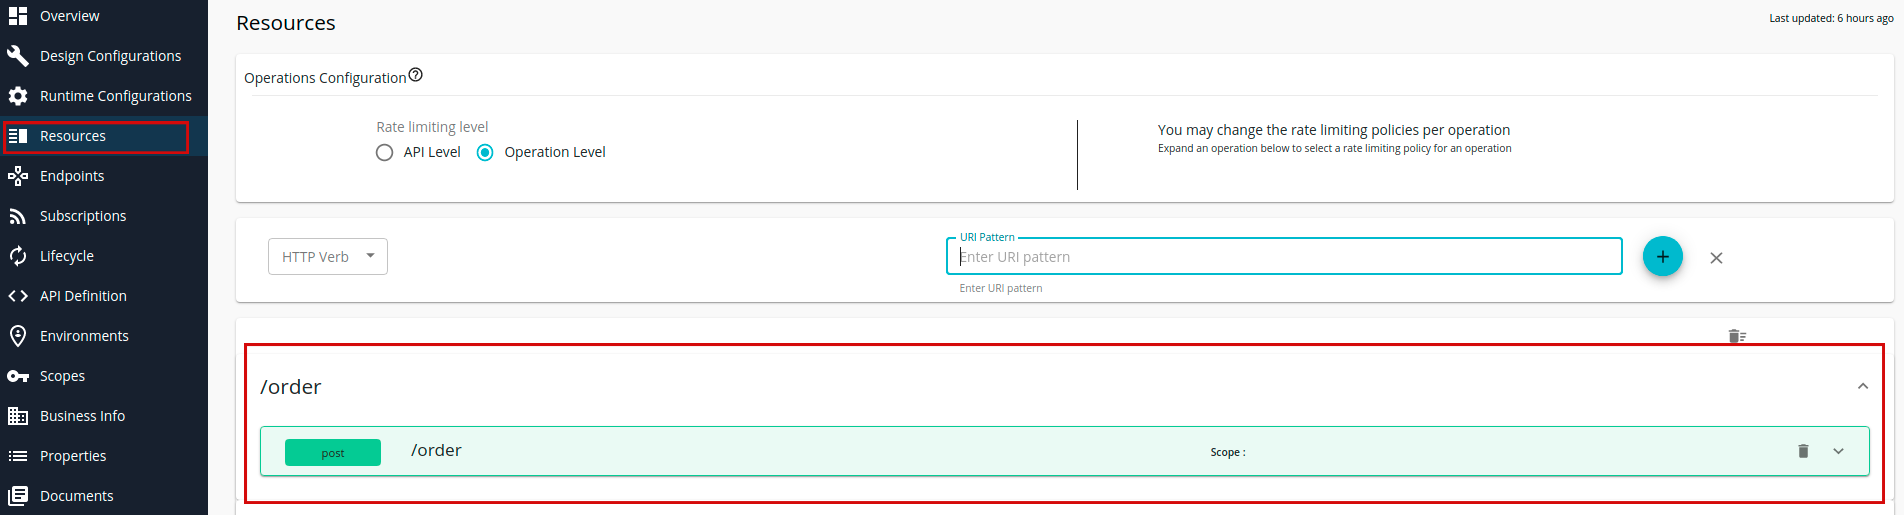
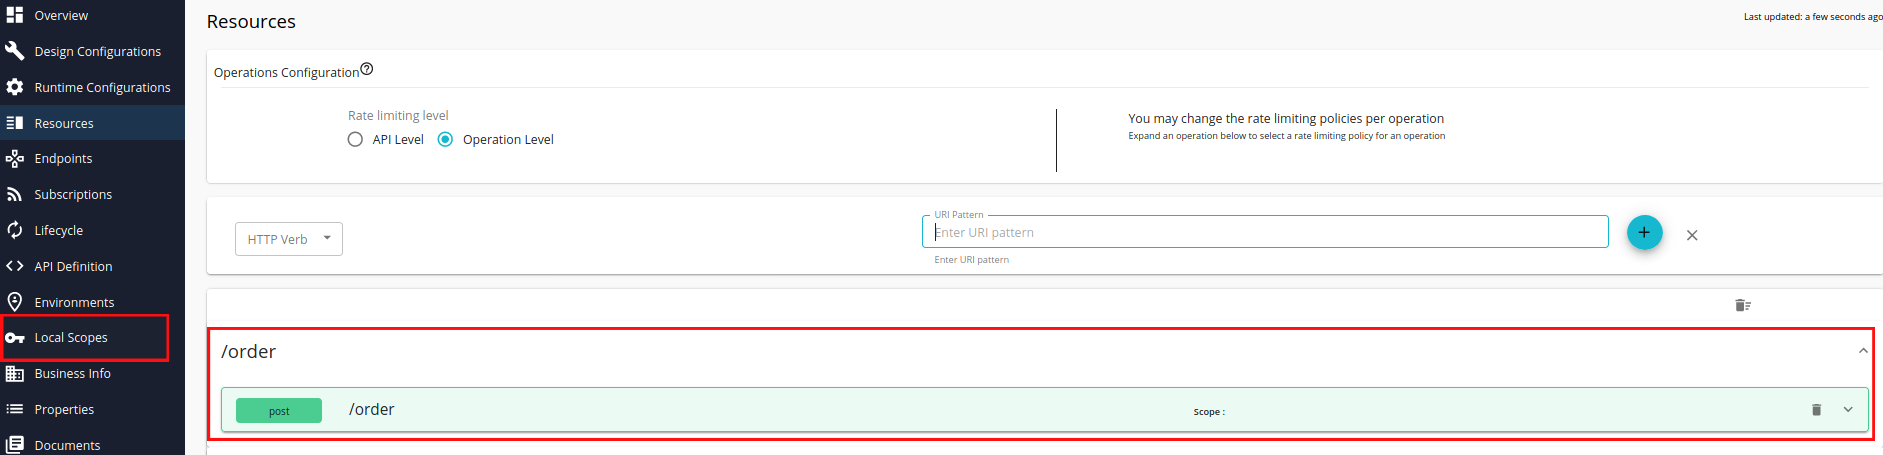
address review comments

diff --git a/en/docs/learn/api-security/oauth2/oauth2-scopes/fine-grained-access-control-with-oauth-scopes.md b/en/docs/learn/api-security/oauth2/oauth2-scopes/fine-grained-access-control-with-oauth-scopes.md
@@ -6,8 +6,7 @@ For example, there can be requirements such as restricting the access to a given
 
 ## Shared Scopes
 
-In WSO2 API-M, you can create OAuth scopes before the API creation time and share them across multiple APIs of the same
-tenant. The API-M Publisher portal provides a scope management UI to view, create, edit and delete these shared scopes. 
+In WSO2 API-M, an OAuth scope can be created before the API is created and shared across multiple APIs of the same tenant. The API-M Publisher portal provides a scope management UI to view, create, edit and delete these shared scopes. 
 
 !!! info
      Shared scopes can be viewed by any Publisher portal user with a role associated with `apim:api_view` Publisher 
@@ -59,8 +58,7 @@ scope description and allowed roles. Fill in required details of the scope and c
 
 ### Applying a Shared Scope to an API Resource
 
-A shared scope has to be applied to a resource, in order to restrict the access to a user group/groups. A shared scope
-can be attached to more than one APIs of the same tenant. Follow below steps to apply a shared scope to a resource.
+A shared scope has to be applied to a resource, in order to restrict the access to a user group/groups. A shared scope can be attached to more than one APIs of the same tenant. Follow below steps to apply a shared scope to a resource.
 
 1. Go to API **Resources** section and click on the resource you would like to apply the scope.
 
@@ -87,7 +85,7 @@ can be attached to more than one APIs of the same tenant. Follow below steps to 
      Once a shared scope is created and attached to an API, you are restricted to delete the shared scope. In order to
      delete a shared scope, first you need to remove its resource attachments from relevant APIs.
 
-## API Scopes 
+## Local Scopes 
 
 !!! warning
      
@@ -97,9 +95,9 @@ can be attached to more than one APIs of the same tenant. Follow below steps to 
 In WSO2 API-M, API developers can also create OAuth scopes during the API creation time and attach them locally to the API. 
 These scopes are local and unique to the relevant API. 
 
-### Creating an API Scope
+### Creating a Local Scope
 
-An API Scope can be created and applied to a resource at API creation time by following below steps.
+A local scope can be created and applied to a resource at API creation time by following below steps.
 
 1. Login to API Publisher (https://localhost:9443/publisher) 
 
@@ -137,17 +135,17 @@ Fill in required details of the scope and click **Save** button.
     <img src="{{base_path}}/assets/img/learn/api-security/oauth2/oauth2-scopes/api-scopes/create-a-new-scope.png" alt="Create a Scope" 
          title="Create a Scope" width="70%" /></a>
 
-### Applying an API Scope to a Resource
+### Applying a Local Scope to a Resource
 
-An API scope has be applied to a resource, in order to restrict the access to a user group/groups. An API Scope can only be
-attached to the relevant API in which it is created under. Follow below steps to apply an API Scope to a resource.
+A Local scope has be applied to a resource, in order to restrict the access to a user group/groups. A Local Scope can only be
+attached to the relevant API in which it is created under. Follow below steps to apply a Local Scope to a resource.
 
 1. Go to API **Resources** section and click on the resource you would like to apply the scope.
 
     <a href="{{base_path}}/assets/img/learn/api-security/oauth2/oauth2-scopes/select-resource.png" ><img src="{{base_path}}/assets/img/learn/api-security/oauth2/oauth2-scopes/select-resource.png" alt="Select Resource" 
          title="Select Resource" width="70%" /></a>
 
-2. Select the created API Scope from the dropdown. The created shared scope will be listed under **API Scopes** in the 
+2. Select the created Local Scope from the dropdown. The created local scope will be listed under **API Scopes** in the 
 dropdown.
 
     <a href="{{base_path}}/assets/img/learn/api-security/oauth2/oauth2-scopes/api-scopes/apply-scope.png" ><img src="{{base_path}}/assets/img/learn/api-security/oauth2/oauth2-scopes/api-scopes/apply-scope.png" alt="Apply Scope" 
@@ -159,9 +157,7 @@ dropdown.
 
 ## Applying Multiple Scopes Per Resource
 
-From API-M Publisher Portal, you can attach multiple scopes to each API resource including combinations of both 
-[Shared Scopes]({{base_path}}/learn/api-security/oauth2/oauth2-scopes/fine-grained-access-control-with-oauth-scopes/#shared-scopes) 
-and [API Scopes]({{base_path}}/learn/api-security/oauth2/oauth2-scopes/fine-grained-access-control-with-oauth-scopes/#api-scopes).
+From API-M Publisher Portal, you can attach multiple scopes to each API resource.
 
 [![Attaching Multiple Scopes per Resource]({{base_path}}/assets/img/learn/api-security/oauth2/oauth2-scopes/multiple-scopes-per-resource.png)]({{base_path}}/assets/img/learn/api-security/oauth2/oauth2-scopes/multiple-scopes-per-resource.png)
 
@@ -172,7 +168,7 @@ Once you attach multiple scopes per resource, the resource will look as follows.
 ## Defining OAuth Scopes in API Definition
 
 Both [Shared Scopes]({{base_path}}/learn/api-security/oauth2/oauth2-scopes/fine-grained-access-control-with-oauth-scopes/#shared-scopes) 
-and [API Scopes]({{base_path}}/learn/api-security/oauth2/oauth2-scopes/fine-grained-access-control-with-oauth-scopes/#api-scopes) should be defined in same way in the OpenAPI definition as follows.
+and [Local Scopes]({{base_path}}/learn/api-security/oauth2/oauth2-scopes/fine-grained-access-control-with-oauth-scopes/#local-scopes) should be defined in same way in the OpenAPI definition as follows.
 
 <a href="{{base_path}}/assets/img/learn/api-security/oauth2/oauth2-scopes/resource-scope-api-definition.png" ><img src="{{base_path}}/assets/img/learn/api-security/oauth2/oauth2-scopes/resource-scope-api-definition.png" alt="Resource Scopes API Definition" 
      title="Resource Scopes API Definition" width="50%" /></a>
@@ -182,7 +178,7 @@ and [API Scopes]({{base_path}}/learn/api-security/oauth2/oauth2-scopes/fine-grai
 
 ## Obtaining Tokens with Scopes
 
-When a scope has been assigned to an API resource, the access is getting restricted to the users who has the role/roles specified in the scope. Hence, the API consumers has to specifically request for the relevant scope when generating an access token to invoke the API resource. Follow below steps to obtain an access token specifying the requested scopes.
+When a scope is attached to an API resource, access to it gets restricted based on the role(s) that is specified in the scope. In order to invoke the API resource, the API consumer has to generate an access token bound to the scope that is attached to the API resource. Follow below steps to obtain an access token specifying the requested scopes.
 
 1. Login to API Developer Portal (https://localhost:9443/devportal/).
 
@@ -196,22 +192,28 @@ When a scope has been assigned to an API resource, the access is getting restric
      <a href="{{base_path}}/assets/img/learn/api-security/oauth2/oauth2-scopes/generate-keys.png" ><img src="{{base_path}}/assets/img/learn/api-security/oauth2/oauth2-scopes/generate-keys.png" alt="Generate App Keys" 
           title="Generate App Keys" width="60%" /></a>
 
-4. Click on **GENERATE ACCESS TOKEN** button. Then select the scope from dropdown in the prompted window and click **GENERATE** button 
-to generate the access token.
+4. Click **GENERATE ACCESS TOKEN** button. Then select the scope from dropdown in the prompted window and click **GENERATE** button to generate the access token.
 
      <a href="{{base_path}}/assets/img/learn/api-security/oauth2/oauth2-scopes/generate-keys.png" ><img src="{{base_path}}/assets/img/learn/api-security/oauth2/oauth2-scopes/token-scopes.png" alt="Select Token Scopes" 
           title="Select Token Scopes" width="60%" /></a>
 
-5. If the user has the roles specified in the scope, the access token will be issued with the requested scope. Unless,
-only the default scopes will be returned with the access token.
- 
-      <a href="{{base_path}}/assets/img/learn/api-security/oauth2/oauth2-scopes/token-scopes-output.png" ><img src="{{base_path}}/assets/img/learn/api-security/oauth2/oauth2-scopes/token-scopes-output.png" alt="Token Scopes" 
+5. If the user has the roles specified in the scope, the access token will be issued with the requested scope. Otherwise, only the default scopes will be returned with the access token.            
+
+    ??? info
+        By default in WSO2 API-M, if no scopes are requested or if none of requested scopes are allowed, the token will be issued with `default` scope.
+        In addition, a token obtained using client credentials grant will be issued with `am_application_scope`.     
+
+     <a href="{{base_path}}/assets/img/learn/api-security/oauth2/oauth2-scopes/token-scopes-output.png" ><img src="{{base_path}}/assets/img/learn/api-security/oauth2/oauth2-scopes/token-scopes-output.png" alt="Token Scopes" 
           title="Token Scopes" width="60%" /></a>
-         
+
 6. Invoke the API resource with the above generated access token. If the user is assigned with the authorized roles, the API invocation will be successful. An API resource access by an unauthorized user will be failed giving 403 Forbidden error.
 
      <a href="../../../../../assets/img/learn/unauthorized-access.png" ><img src="../../../../../assets/img/learn/unauthorized-access.png" alt="Token scopes" 
          title="Token Scopes" width="50%" /></a>
+
+!!! info
+
+     If you first create a local scope and then create a shared scope with same scope name before attaching the local scope to any API resource, the local scope will removed from Local Scope UI. However, it will not be reflected in the API Definition, unless you save the API. This is an identified limitation in supporting both Local and Shared Scopes. Hence, we recommend you to use Shared Scopes only from 3.2 onwards. Local Scopes are deprecated and will be removed in future release.
 
 
 
